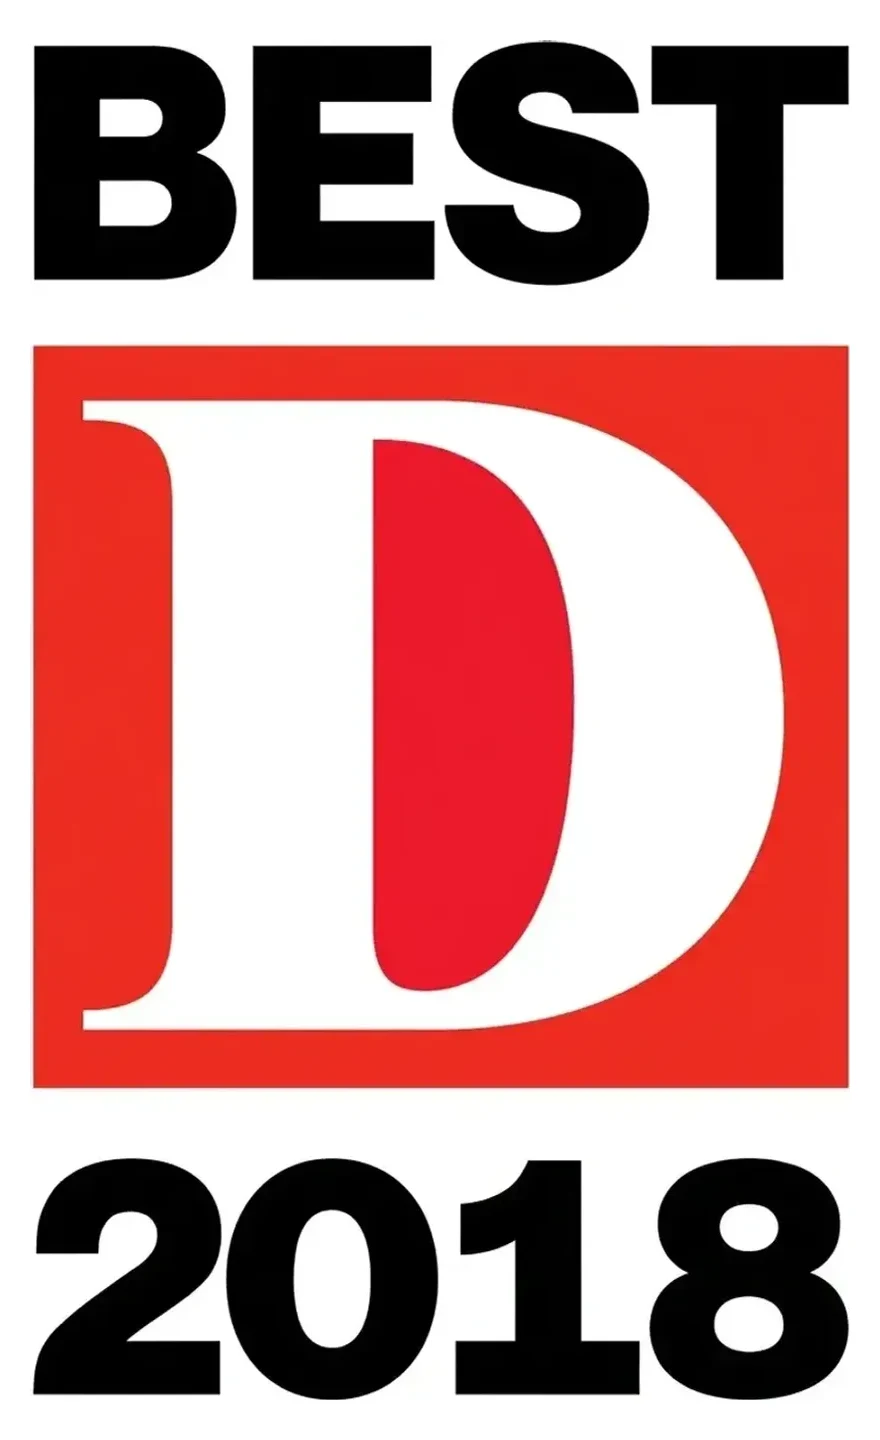
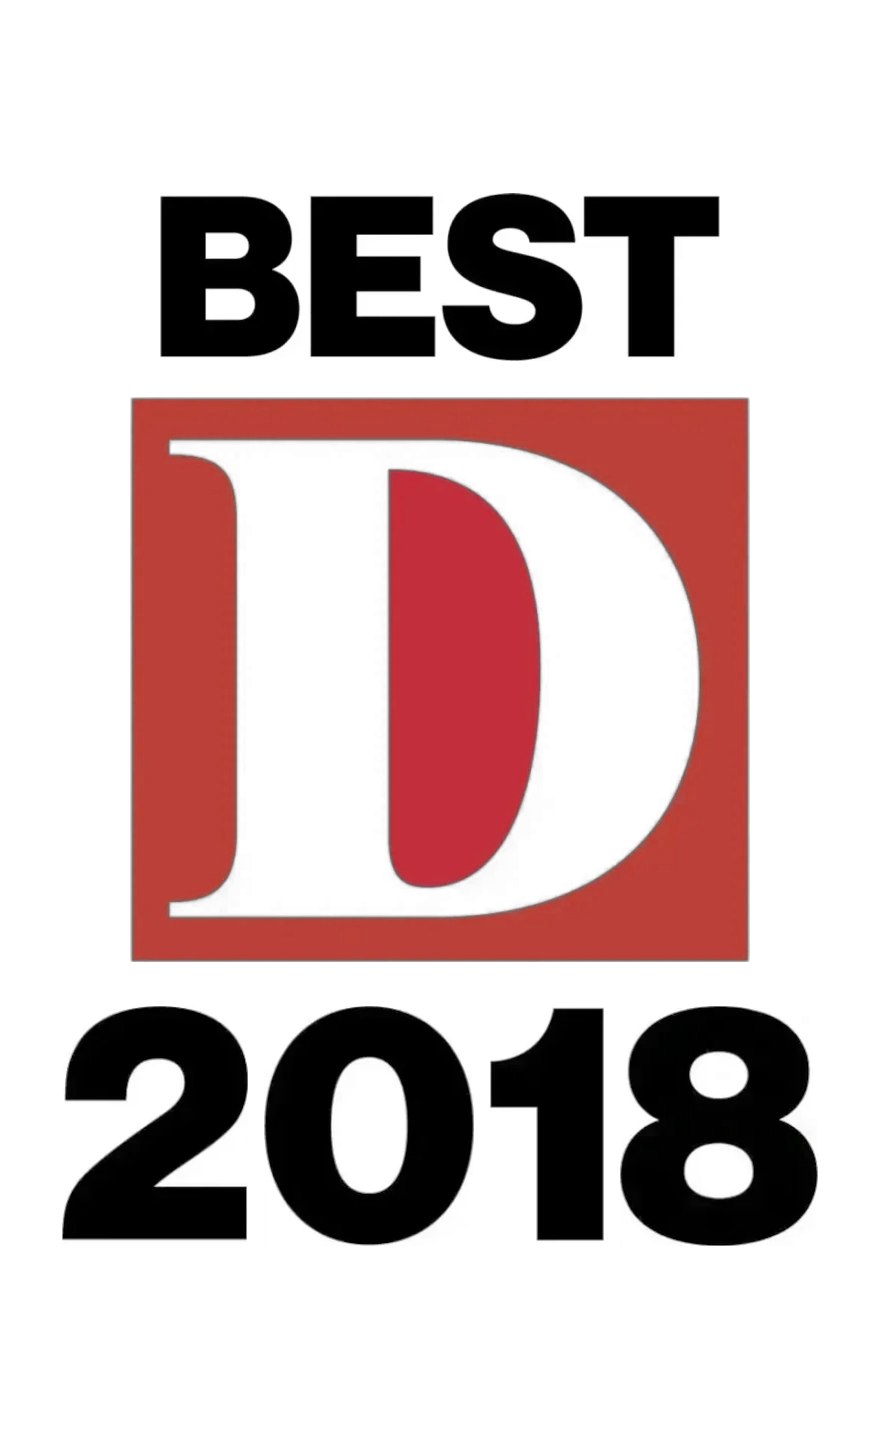
Badges: recompose all twelve from canonical components and a single digit glyph library
BEST, red D, digit font/weight/height, and spacing are now identical by
construction (cv2 decomposition + reassembly, transparent background).
Width varies only with natural digit widths.

diff --git a/scripts/rebuild_badges_v2.py b/scripts/rebuild_badges_v2.py
@@ -1,0 +1,162 @@
+#!/usr/bin/env python3
+"""
+Badge rebuild, final pass: one canonical FONT for every year.
+
+The yearly files use slightly different digit fonts/weights (2017 and 2025
+come from vector renders in a lighter cut). This pass harvests a single
+digit glyph library from the matching-weight badges, then composes every
+year's numerals from the same ten glyphs — identical font, weight, height,
+and spacing across all twelve badges by construction.
+
+Depends on rebuild_badges.py having produced component-normalized badges
+(canonical BEST + D). Reads the CURRENT webp files to harvest, then rewrites.
+"""
+import os
+
+import cv2
+import numpy as np
+
+DIR = "/Users/gunjanmodi/Documents/PlanoDerm Website/TSC/public/images/awards"
+YEARS = [2015, 2016, 2017, 2018, 2019, 2020, 2021, 2022, 2023, 2024, 2025, 2026]
+
+CANVAS_W, CANVAS_H = 880, 1440
+BEST_W, D_W = 560, 620
+YEAR_H = 240
+GAP1, GAP2 = 36, 44
+KERN = 16  # uniform inter-digit gap
+
+# digit -> (source year, index of glyph within that year's numerals)
+GLYPH_SOURCES = {
+    "2": (2020, 0), "0": (2020, 1), "1": (2019, 2), "9": (2019, 3),
+    "3": (2023, 3), "4": (2024, 3), "5": (2015, 3), "6": (2016, 3),
+    "8": (2018, 3), "7": (2017, 3),
+}
+
+
+def load_rgba(year):
+    img = cv2.imread(os.path.join(DIR, f"d-best-{year}.webp"), cv2.IMREAD_UNCHANGED)
+    assert img is not None and img.shape[2] == 4, f"{year} not RGBA"
+    return img
+
+
+def row_blocks(alpha):
+    content = (alpha > 40).any(axis=1)
+    blocks, start = [], None
+    for i, has in enumerate(content):
+        if has and start is None:
+            start = i
+        elif not has and start is not None:
+            if i - start > 12:
+                blocks.append((start, i))
+            start = None
+    if start is not None:
+        blocks.append((start, len(content)))
+    return blocks
+
+
+def year_strip(img):
+    a = img[:, :, 3]
+    blocks = row_blocks(a)
+    top, bottom = blocks[-1]
+    strip = img[top:bottom]
+    cols = (strip[:, :, 3] > 40).any(axis=0)
+    x0, x1 = int(np.argmax(cols)), len(cols) - int(np.argmax(cols[::-1]))
+    return strip[:, x0:x1]
+
+
+def split_glyphs(strip):
+    cols = (strip[:, :, 3] > 40).any(axis=0)
+    glyphs, start = [], None
+    for i, has in enumerate(cols):
+        if has and start is None:
+            start = i
+        elif not has and start is not None:
+            if i - start > 8:
+                glyphs.append(strip[:, start:i])
+            start = None
+    if start is not None:
+        glyphs.append(strip[:, start:])
+    return glyphs
+
+
+def scale_h(img, height):
+    h, w = img.shape[:2]
+    return cv2.resize(img, (max(1, round(w * height / h)), height),
+                      interpolation=cv2.INTER_AREA if height < h else cv2.INTER_LANCZOS4)
+
+
+def main():
+    # Harvest glyph library.
+    lib = {}
+    cache = {y: load_rgba(y) for y in set(y for y, _ in GLYPH_SOURCES.values())}
+    for digit, (year, idx) in GLYPH_SOURCES.items():
+        glyphs = split_glyphs(year_strip(cache[year]))
+        assert len(glyphs) == 4, f"{year}: found {len(glyphs)} glyphs"
+        g = scale_h(glyphs[idx], YEAR_H)
+        if digit == "7":
+            # 2017's seven comes from a lighter vector cut — thicken to match.
+            a = g[:, :, 3]
+            a = cv2.dilate(a, np.ones((5, 5), np.uint8))
+            a = cv2.GaussianBlur(a, (3, 3), 0)
+            g = g.copy()
+            g[:, :, 3] = a
+            g[:, :, :3] = np.where(a[..., None] > 60, 20, g[:, :, :3])
+        lib[digit] = g
+        print(f"glyph {digit}: {g.shape[1]}x{g.shape[0]} from {year}")
+
+    # Canonical BEST + D from the current 2020 badge.
+    b2020 = cache[2020]
+    blocks = row_blocks(b2020[:, :, 3])
+    def crop(span):
+        top, bottom = span
+        strip = b2020[top:bottom]
+        cols = (strip[:, :, 3] > 40).any(axis=0)
+        x0, x1 = int(np.argmax(cols)), len(cols) - int(np.argmax(cols[::-1]))
+        return strip[:, x0:x1]
+    best, dbox = crop(blocks[0]), crop(blocks[1])
+
+    def paste(canvas, rgba, cx, y):
+        h, w = rgba.shape[:2]
+        x = cx - w // 2
+        roi = canvas[y : y + h, x : x + w]
+        a = rgba[:, :, 3:4].astype(np.float32) / 255.0
+        roi[:, :, :3] = (rgba[:, :, :3] * a + roi[:, :, :3] * (1 - a)).astype(np.uint8)
+        roi[:, :, 3] = np.clip(roi[:, :, 3] + rgba[:, :, 3], 0, 255)
+        return y + h
+
+    total_h = best.shape[0] + GAP1 + dbox.shape[0] + GAP2 + YEAR_H
+    top0 = (CANVAS_H - total_h) // 2
+
+    for year in YEARS:
+        digits = [lib[c] for c in str(year)]
+        w_total = sum(g.shape[1] for g in digits) + KERN * (len(digits) - 1)
+        strip = np.zeros((YEAR_H, w_total, 4), np.uint8)
+        x = 0
+        for g in digits:
+            strip[:, x : x + g.shape[1]] = g
+            x += g.shape[1] + KERN
+
+        canvas = np.zeros((CANVAS_H, CANVAS_W, 4), np.uint8)
+        y = top0
+        y = paste(canvas, best, CANVAS_W // 2, y) + GAP1
+        y = paste(canvas, dbox, CANVAS_W // 2, y) + GAP2
+        paste(canvas, strip, CANVAS_W // 2, y)
+        cv2.imwrite(os.path.join(DIR, f"d-best-{year}.webp"), canvas, [cv2.IMWRITE_WEBP_QUALITY, 92])
+        print(year, "composed, year width", w_total)
+
+    # Verification sheet on ivory.
+    sheet = np.full((360, 12 * 230, 3), (239, 244, 247), np.uint8)
+    for i, year in enumerate(YEARS):
+        rgba = cv2.imread(os.path.join(DIR, f"d-best-{year}.webp"), cv2.IMREAD_UNCHANGED)
+        small = cv2.resize(rgba, (round(CANVAS_W * 330 / CANVAS_H), 330), interpolation=cv2.INTER_AREA)
+        h, w = small.shape[:2]
+        x = i * 230 + (230 - w) // 2
+        roi = sheet[15 : 15 + h, x : x + w]
+        a = small[:, :, 3:4].astype(np.float32) / 255.0
+        roi[:] = (small[:, :, :3] * a + roi * (1 - a)).astype(np.uint8)
+    cv2.imwrite("/tmp/badge-sheet-v2.png", sheet)
+    print("sheet: /tmp/badge-sheet-v2.png")
+
+
+if __name__ == "__main__":
+    main()

diff --git a/scripts/rebuild_badges.py b/scripts/rebuild_badges.py
@@ -1,0 +1,134 @@
+#!/usr/bin/env python3
+"""
+Rebuild the twelve D Best badges with pixel-identical composition.
+
+The yearly badge art varies internally (D-box scale, BEST weight, spacing),
+so outer-canvas normalization can never look uniform. This script:
+  1. splits each badge into its three stacked elements (BEST / red D / year)
+     by finding the white row-gaps between them;
+  2. takes ONE canonical BEST and ONE canonical red D (from the cleanest
+     official file, 2020) for every year;
+  3. keeps each year's own digits, scaled to one uniform height;
+  4. reassembles all twelve on identical transparent canvases with fixed
+     spacing — whites become alpha so the page's ivory shows through.
+"""
+import glob
+import os
+
+import cv2
+import numpy as np
+
+DIR = "/Users/gunjanmodi/Documents/PlanoDerm Website/TSC/public/images/awards"
+YEARS = [2015, 2016, 2017, 2018, 2019, 2020, 2021, 2022, 2023, 2024, 2025, 2026]
+
+# Output geometry (identical for every badge).
+CANVAS_W, CANVAS_H = 880, 1440
+BEST_W = 560          # canonical BEST width
+D_W = 620             # canonical D-box width
+YEAR_H = 240          # every year's digits scaled to this cap height
+GAP1, GAP2 = 36, 44   # BEST->D, D->year
+
+
+def load(year):
+    path = os.path.join(DIR, f"d-best-{year}.webp")
+    img = cv2.imread(path, cv2.IMREAD_COLOR)
+    if img is None:
+        raise SystemExit(f"cannot read {path}")
+    return img
+
+
+def split_elements(img):
+    """Return list of (top, bottom) row-spans of non-white content blocks."""
+    gray = cv2.cvtColor(img, cv2.COLOR_BGR2GRAY)
+    content = (gray < 235).any(axis=1)
+    blocks, start = [], None
+    for i, has in enumerate(content):
+        if has and start is None:
+            start = i
+        elif not has and start is not None:
+            if i - start > 12:
+                blocks.append((start, i))
+            start = None
+    if start is not None:
+        blocks.append((start, len(content)))
+    return blocks
+
+
+def crop_block(img, span):
+    top, bottom = span
+    strip = img[top:bottom]
+    gray = cv2.cvtColor(strip, cv2.COLOR_BGR2GRAY)
+    cols = (gray < 235).any(axis=0)
+    x0, x1 = int(np.argmax(cols)), len(cols) - int(np.argmax(cols[::-1]))
+    return strip[:, x0:x1]
+
+
+def to_rgba(img):
+    """White -> transparent. Alpha from distance-to-white of the min channel."""
+    mn = img.min(axis=2).astype(np.int16)
+    alpha = np.clip(255 - mn, 0, 255).astype(np.uint8)
+    rgba = cv2.cvtColor(img, cv2.COLOR_BGR2BGRA)
+    rgba[:, :, 3] = alpha
+    return rgba
+
+
+def scale_to(img, width=None, height=None):
+    h, w = img.shape[:2]
+    if width is not None:
+        return cv2.resize(img, (width, round(h * width / w)), interpolation=cv2.INTER_AREA if width < w else cv2.INTER_LANCZOS4)
+    return cv2.resize(img, (round(w * height / h), height), interpolation=cv2.INTER_AREA if height < h else cv2.INTER_LANCZOS4)
+
+
+def paste(canvas, rgba, cx, y):
+    h, w = rgba.shape[:2]
+    x = cx - w // 2
+    roi = canvas[y : y + h, x : x + w]
+    a = (rgba[:, :, 3:4].astype(np.float32)) / 255.0
+    roi[:, :, :3] = (rgba[:, :, :3] * a + roi[:, :, :3] * (1 - a)).astype(np.uint8)
+    roi[:, :, 3] = np.clip(roi[:, :, 3] + rgba[:, :, 3], 0, 255)
+    return y + h
+
+
+def main():
+    # Canonical BEST + D from the 2020 official badge.
+    ref = load(2020)
+    ref_blocks = split_elements(ref)
+    assert len(ref_blocks) >= 3, f"2020 split into {len(ref_blocks)} blocks"
+    best = to_rgba(scale_to(crop_block(ref, ref_blocks[0]), width=BEST_W))
+    dbox = to_rgba(scale_to(crop_block(ref, ref_blocks[1]), width=D_W))
+
+    total_h = best.shape[0] + GAP1 + dbox.shape[0] + GAP2 + YEAR_H
+    top0 = (CANVAS_H - total_h) // 2
+
+    for year in YEARS:
+        img = load(year)
+        blocks = split_elements(img)
+        assert len(blocks) >= 3, f"{year}: split into {len(blocks)} blocks"
+        year_img = to_rgba(scale_to(crop_block(img, blocks[-1]), height=YEAR_H))
+
+        canvas = np.zeros((CANVAS_H, CANVAS_W, 4), np.uint8)
+        y = top0
+        y = paste(canvas, best, CANVAS_W // 2, y) + GAP1
+        y = paste(canvas, dbox, CANVAS_W // 2, y) + GAP2
+        paste(canvas, year_img, CANVAS_W // 2, y)
+
+        out = os.path.join(DIR, f"d-best-{year}.webp")
+        cv2.imwrite(out, canvas, [cv2.IMWRITE_WEBP_QUALITY, 92])
+        print(year, "rebuilt: year strip", year_img.shape[1], "x", year_img.shape[0])
+
+    # Contact sheet for verification (on ivory).
+    sheet = np.full((360, 12 * 230, 3), (239, 244, 247), np.uint8)  # BGR ivory
+    for i, year in enumerate(YEARS):
+        rgba = cv2.imread(os.path.join(DIR, f"d-best-{year}.webp"), cv2.IMREAD_UNCHANGED)
+        small = cv2.resize(rgba, (round(CANVAS_W * 330 / CANVAS_H), 330), interpolation=cv2.INTER_AREA)
+        h, w = small.shape[:2]
+        x = i * 230 + (230 - w) // 2
+        roi = sheet[15 : 15 + h, x : x + w]
+        a = small[:, :, 3:4].astype(np.float32) / 255.0
+        roi[:] = (small[:, :, :3] * a + roi * (1 - a)).astype(np.uint8)
+    cv2.imwrite("/tmp/badge-sheet.png", sheet)
+    print("verification sheet: /tmp/badge-sheet.png")
+
+
+if __name__ == "__main__":
+    main()
